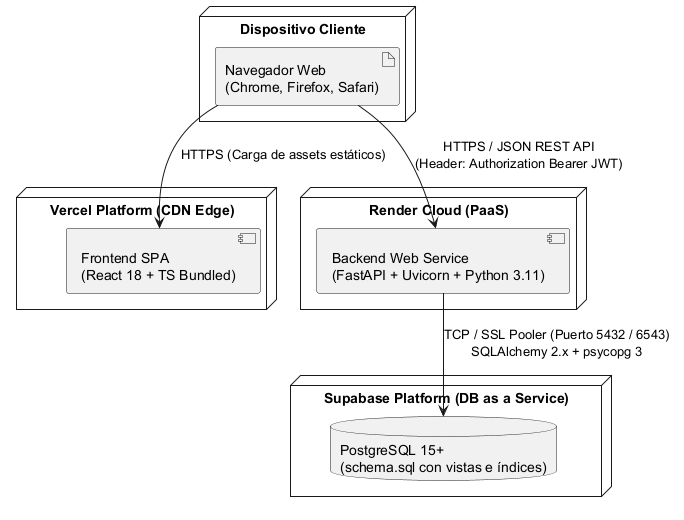
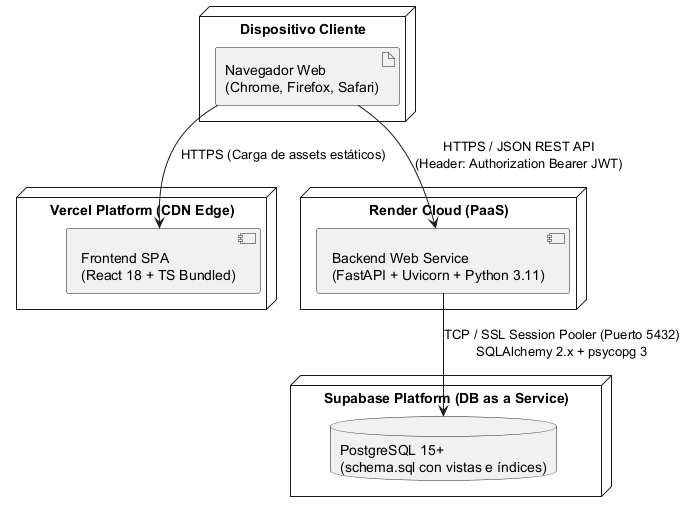
docs: corrige puerto del pooler de Supabase en el diagrama de despliegue
Transaction pooler (6543) no soporta prepared statements, que psycopg3
usa por defecto. El backend es un servidor FastAPI persistente en
Render, no funciones serverless, asi que corresponde Session pooler
(5432).

diff --git a/docs/entrega-2/10-arquitectura-tecnica.md b/docs/entrega-2/10-arquitectura-tecnica.md
@@ -114,7 +114,7 @@ Fuente editable en [`diagramas/arquitectura/despliegue.puml`](diagramas/arquitec
        │
        └──► HTTPS / JSON (API REST) ───────► [ Render: FastAPI + Uvicorn ]
                                                     │
-                                                    ▼ TCP / SSL Pooler (6543)
+                                                    ▼ TCP / SSL Session Pooler (5432)
                                              [ Supabase: PostgreSQL ]
 ```
 
